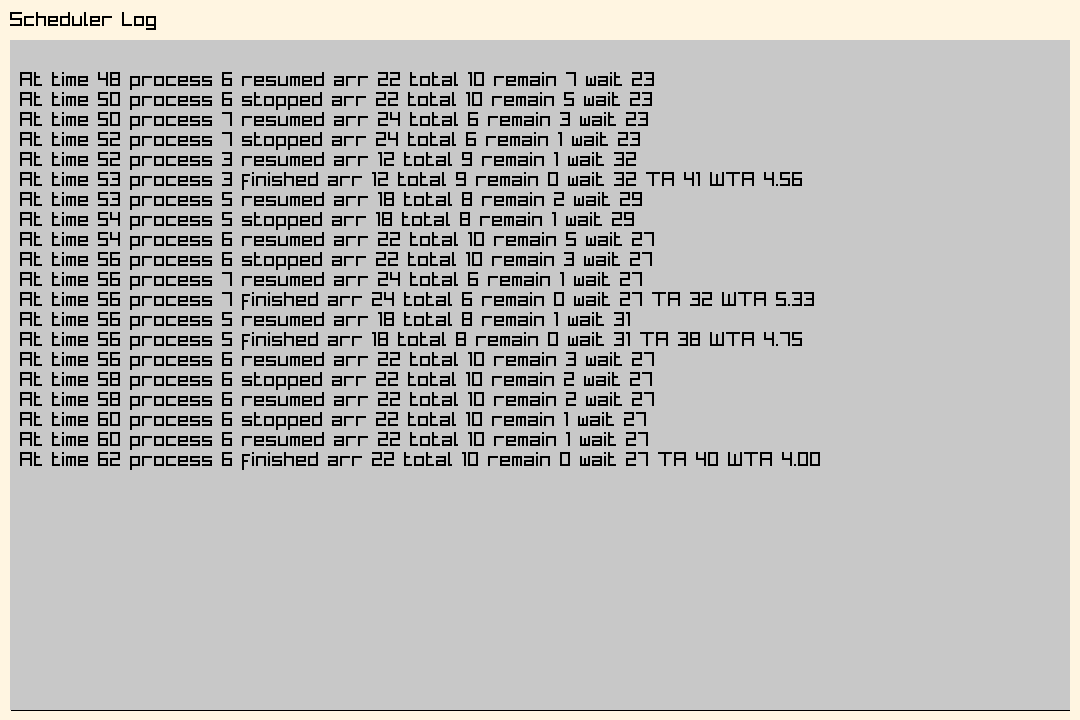
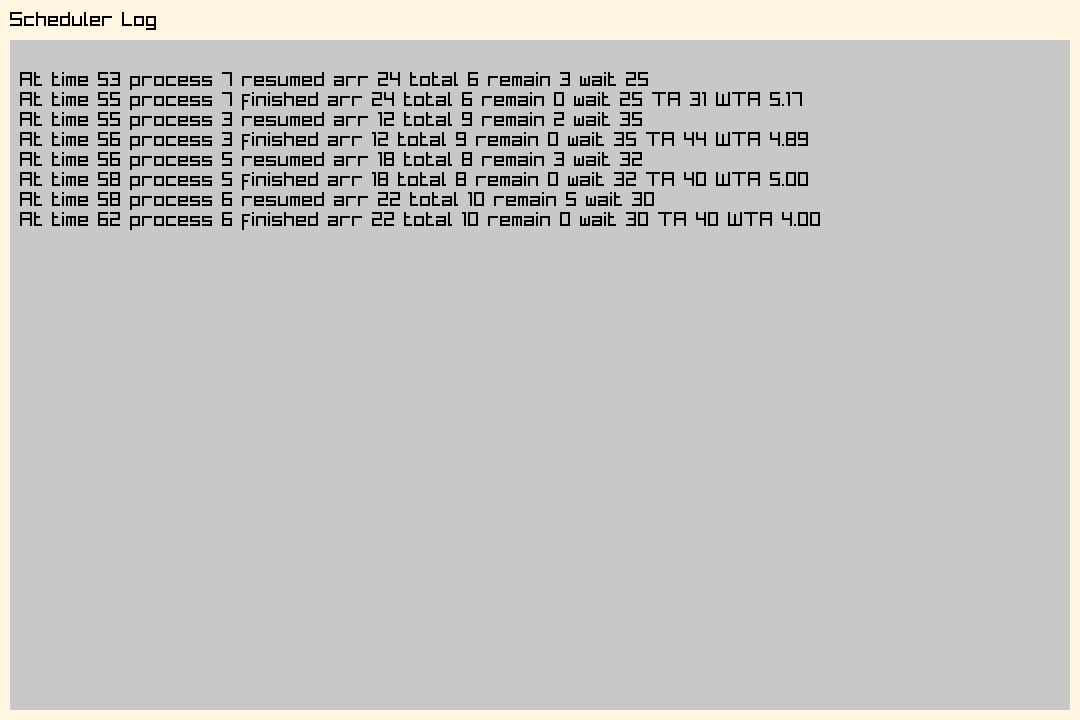
fix: RR fixedgit add .

Changed region(s): [[0.0, 0.2444, 0.7639, 0.6417], [0.2139, 0.0917, 0.7639, 0.2444]]

diff --git a/code/scheduler.c b/code/scheduler.c
@@ -436,7 +436,7 @@ int RRScheduling(void **readyQueue, process_t *process, int *rQuantem) {
   if (!currentProcess) {
     *rQuantem = -1;
     contextSwitch((process_t *)pop(*readyQ));
-  } else if (*rQuantem <= 0) {
+  } else if (*rQuantem <= 0 && !empty(*readyQ)) {
     preemptProcess(currentProcess);
     push(*readyQ, currentProcess);
     currentProcess = NULL;
